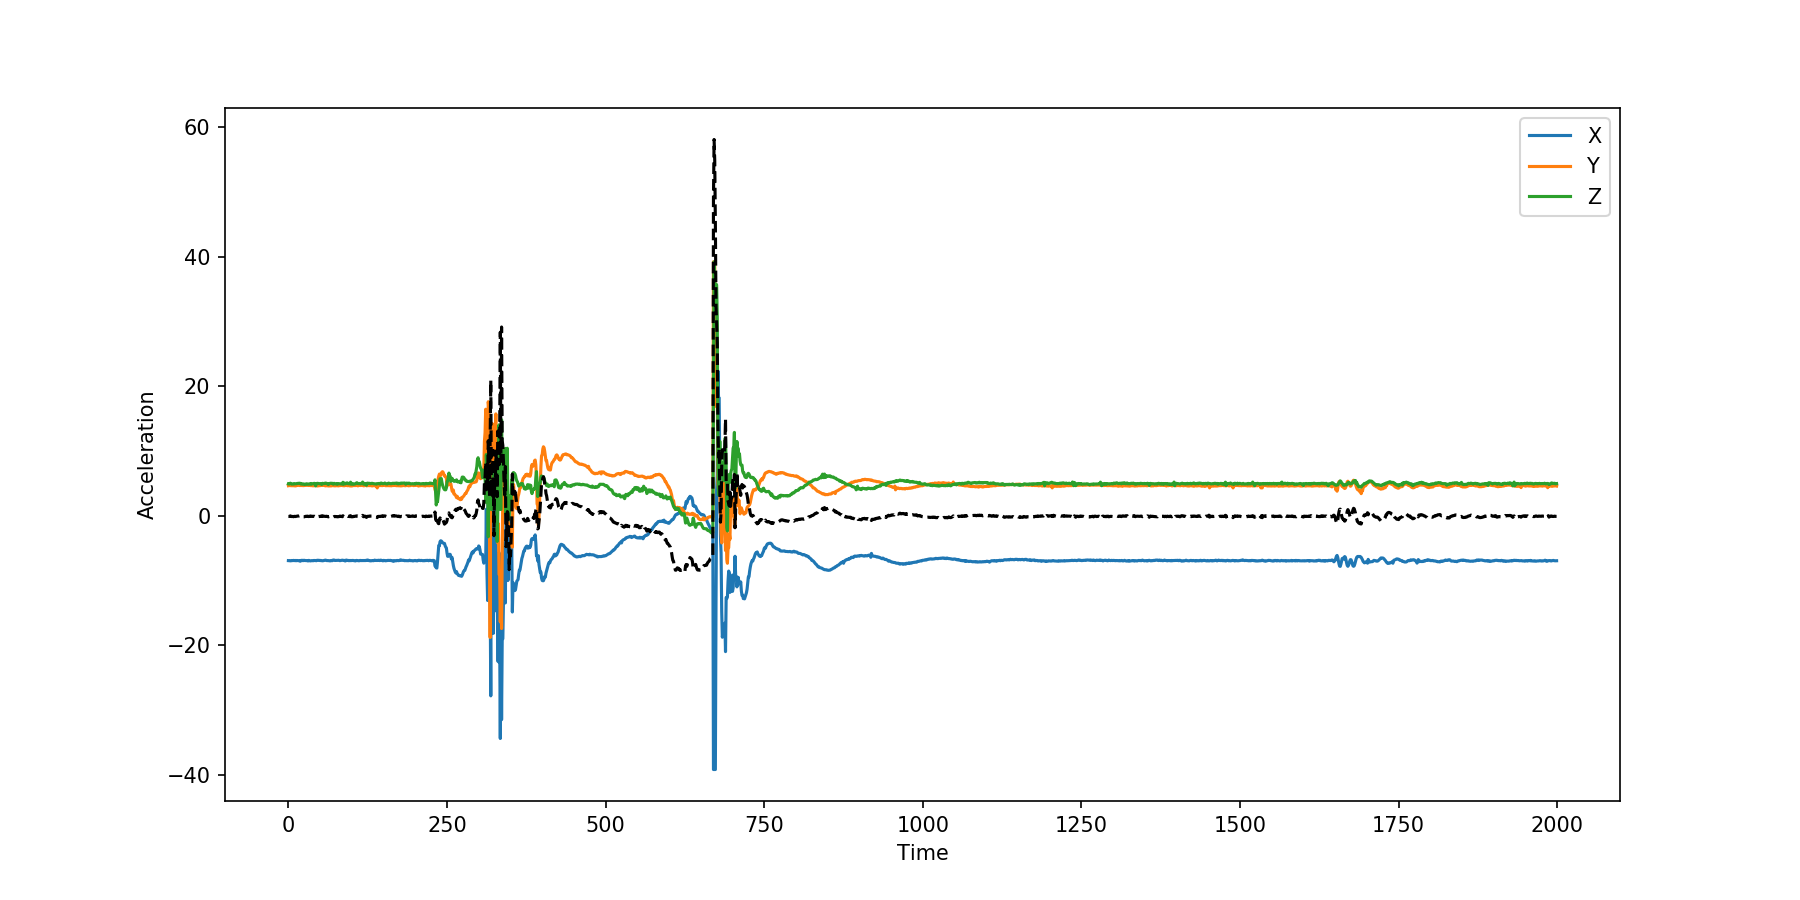
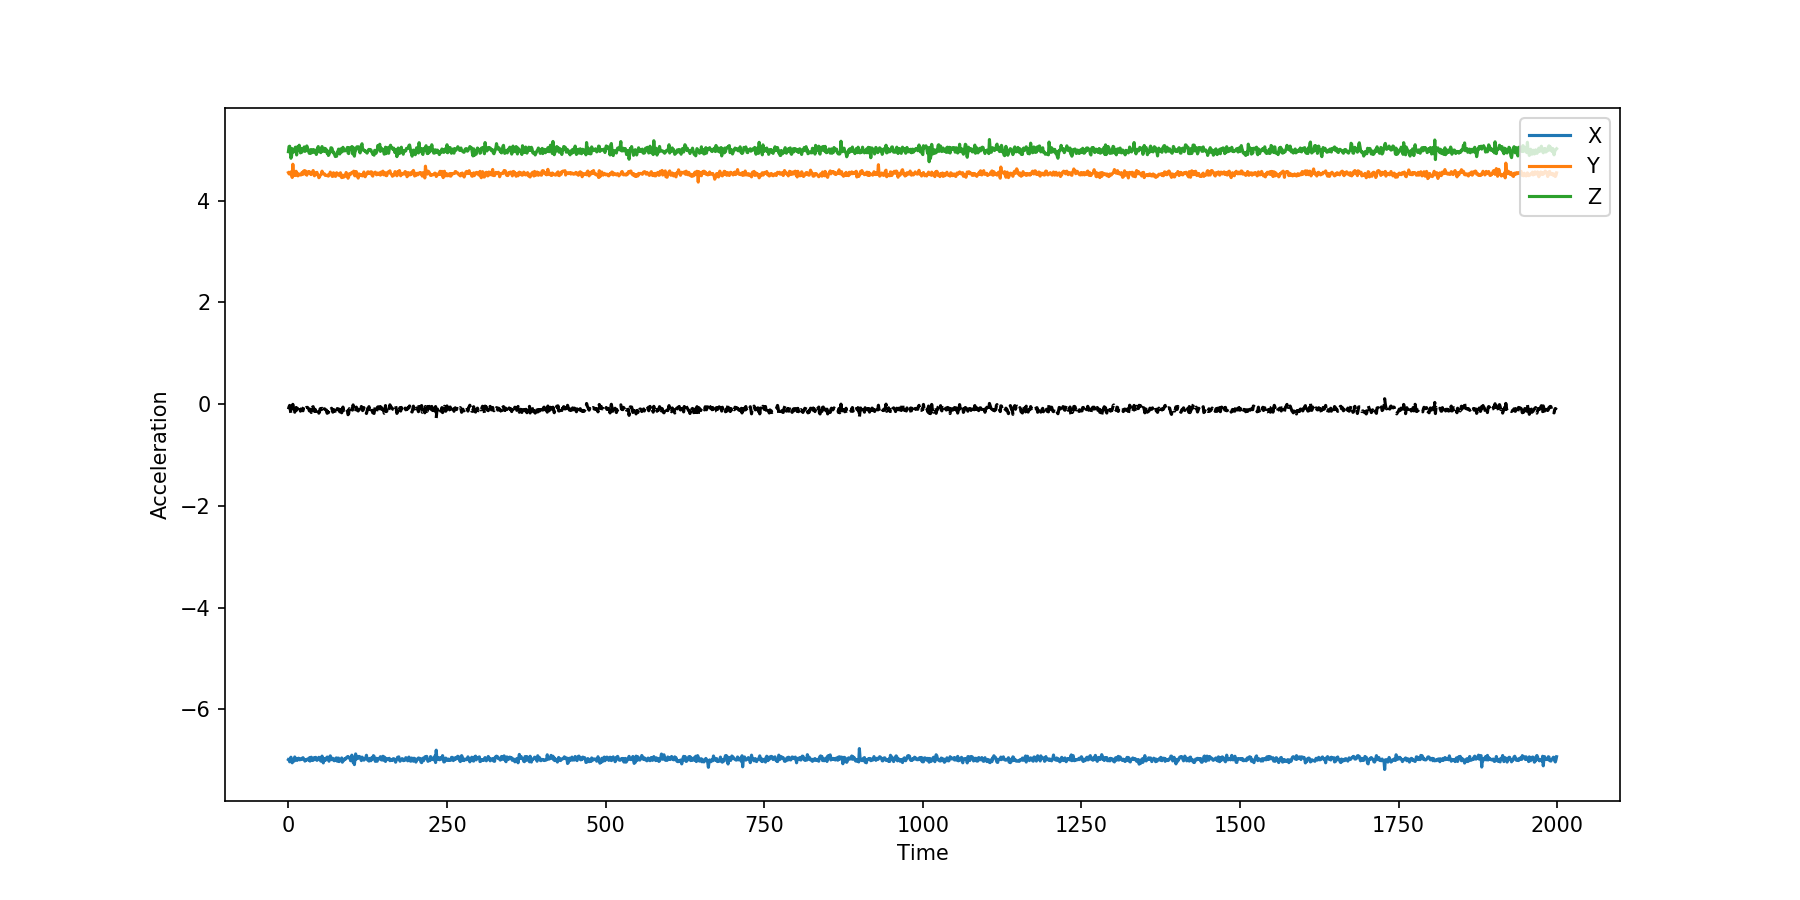
playing with plots

diff --git a/speedtest.py b/speedtest.py
@@ -3,7 +3,11 @@
 #Script to test speed of reading.
 
 # import sys
+# print(sys.path)
+# ipypaths = ['/home/pi/.local/bin', '/usr/lib/python37.zip', '/usr/lib/python3.7', '/usr/lib/python3.7/lib-dynload', '', '/home/pi/.local/lib/python3.7/site-packages', '/usr/local/lib/python3.7/dist-packages', '/usr/lib/python3/dist-packages', '/home/pi/.local/lib/python3.7/site-packages/IPython/extensions', '/home/pi/.ipython']
 # sys.path.append('/usr/local/lib/python3.7/dist-packages')
+# sys.path.append('/usr/lib/python3/dist-packages')
+# print(sys.path)
 
 import time
 from mpu6050 import mpu6050
@@ -16,21 +20,21 @@ import matplotlib.pyplot as plt
 
 
 mpu = mpu6050(0x68)
-mpu.set_accel_range(8)
+mpu.set_accel_range(24)  #Acceptable  values: 0, 8, 16, 24
 
-def calibrate(caltime):
-    stop = time.time()+caltime
-    d = mpu.get_accel_data()
-    a = np.array([d['x'], d['y'], d['z']])
-    while time.time() < stop:
-        d = mpu.get_accel_data()
-        a = np.vstack([a, [d['x'], d['y'], d['z']]])
-    return np.mean(a, axis=0)
+# def calibrate(caltime):
+#     stop = time.time()+caltime
+#     d = mpu.get_accel_data()
+#     a = np.array([d['x'], d['y'], d['z']])
+#     while time.time() < stop:
+#         d = mpu.get_accel_data()
+#         a = np.vstack([a, [d['x'], d['y'], d['z']]])
+#     return np.mean(a, axis=0)
 
-calibrate(1)
+# cal = calibrate(1)
 
 
-def print_figure(a):
+def print_figure(a, namestr):
 #     ax = fig.subplots()
     begin = 0       #Starting time step
     end = len(a)    #Number of steps from begin
@@ -38,19 +42,17 @@ def print_figure(a):
     timeseries = range(begin, end)
 
     fig, ax = plt.subplots(figsize=(12,6))
-#     fig.figure(figsize=(12,6))
+    line0, = ax.plot([timeseries[0], timeseries[-1]], [0,0], '--k', alpha=0.25)
     line1, = ax.plot(timeseries, a[begin:end,1])
     line2, = ax.plot(timeseries, a[begin:end,2])
     line3, = ax.plot(timeseries, a[begin:end,3])
-    
-#     plt.plot(timeseries, np.max(np.abs(a[begin:end,1:4]), axis=1), '--r')
-    line4, = ax.plot(timeseries, np.sqrt(np.sum(np.square(a[begin:end,1:4]), axis=1))-9.80665, '--k')
+    line4, = ax.plot(timeseries, np.sqrt(np.sum(np.square(a[begin:end,1:4]), axis=1))-1, '--k')
 
 
     ax.set_xlabel('Time')
     ax.set_ylabel('Acceleration')
     ax.legend(['X', 'Y', 'Z'], loc='upper right')
-    fig.savefig('testfig.png', dpi=150)
+    fig.savefig(namestr+'.png', dpi=150)
     return None
 
     
@@ -65,25 +67,36 @@ lednorm = 'echo mmc0 | sudo tee /sys/class/leds/led0/trigger >/dev/null'
 ledoff = 'echo none | sudo tee /sys/class/leds/led0/trigger >/dev/null'
 
 
-os.system(ledoff)
-os.system(ledsolidon)
+def cal_clock(rec_duration):
+    a = np.zeros((2000, 4))
+    for i in range(2000):
+        t, d = time.clock(), mpu.get_accel_data(g = True)
+        a[i] = [t, d['x'], d['y'], d['z']]
+    return int(rec_duration/((a[-1,0]-a[0,0])/len(a)))
 
-rec_duration = 2   # seconds
+def main(datapoints):
+    os.system(ledoff)
+    os.system(ledsolidon)
 
-datapoints = int(rec_duration/.001)
+    a = np.zeros((datapoints, 4))
+    for i in range(datapoints):
+        t, d = time.clock(), mpu.get_accel_data(g = True)
+        a[i] = [t, d['x'], d['y'], d['z']]
+    print('Runtime: {}'.format(a[-1,0]-a[0,0]))
+    differ = np.diff(a[:,0])
+    print('Time Slice Avg, Max, Min: {} {} {}'.format((a[-1,0]-a[0,0])/datapoints, max(differ), min(differ)))
 
-a = np.zeros((datapoints, 4))
-for i in range(datapoints):
-    d = mpu.get_accel_data()
-    a[i] = [time.time(), d['x'], d['y'], d['z']]
-print('Runtime: {}'.format(a[-1,0]-a[0,0]))
-print('Avg Time Slice: {}'.format((a[-1,0]-a[0,0])/datapoints))
+    os.system(ledsolidoff)
+    os.system(lednorm)
 
-os.system(ledsolidoff)
-os.system(lednorm)
+    namestr = 'output-{}'.format(time.strftime('%Y_%m_%d-%H_%M_%S'))
 
-namestr = 'output-{}.txt.gz'.format(time.strftime('%Y_%m_%d-%H_%M_%S'))
+    np.savetxt(namestr+'.txt.gz', a, delimiter=',', fmt='%1.9e')
+    print('Data file saved: {}'.format(namestr))
 
-# np.savetxt(namestr, a, delimiter=',', fmt='%1.5e')
+    print_figure(a, namestr)
 
-print_figure(a)
+if __name__ == "__main__":
+#     datapoints = cal_clock(3)
+#     print(datapoints)
+    main(6000)
